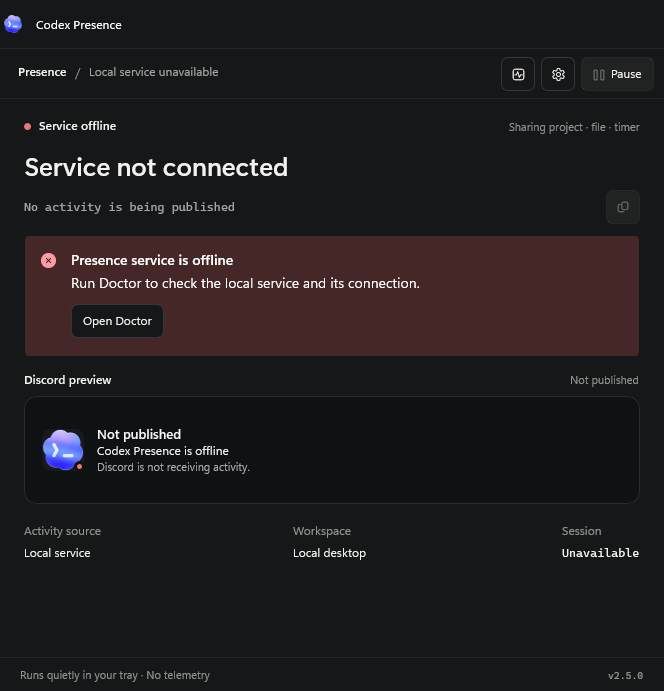
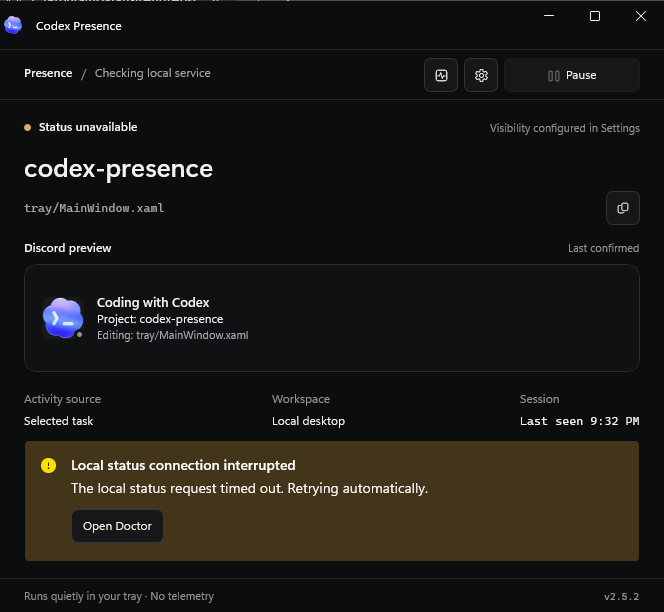
docs: show native interactions and clarify publication states

diff --git a/tests/presentation/Program.cs b/tests/presentation/Program.cs
@@ -19,6 +19,7 @@ snapshot.RpcPublished = false;
 Check(Present().PreviewLabel == "Not published", "unacknowledged activity is not labeled live");
 snapshot.PresenceEnabled = false;
 Check(Present().PreviewLabel == "Not published" && !Present().ShowPreviewElapsed, "paused activity hides the public timer");
+Check(Present().SharingSummary.StartsWith("Configured:"), "paused privacy settings are not described as currently shared");
 snapshot.PresenceEnabled = true;
 snapshot.RpcPublished = true;
 privacy.ShowFile = false;
@@ -37,6 +38,8 @@ var stale = PresencePresentation.Create(snapshot, privacy, now, "Local request t
 Check(stale.Project == "Presence" && stale.PreviewLabel == "Last confirmed", "last confirmed context survives a temporary connection failure");
 Check(!stale.ShowPreviewElapsed && !stale.PreviewSecondary.Contains("MainWindow"), "stale preview freezes the public timer and respects privacy");
 Check(Present().PreviewLabel == "Published" && Present().PauseEnabled, "successful reconnect restores live status and controls");
+var privateFields = new PrivacyConfig { ShowProject = false, ShowFile = false, ShowTaskTitle = false, ShowTimer = false };
+Check(PresencePresentation.Create(snapshot, privateFields, now).SharingSummary == "Sharing app name only", "hiding all optional fields still discloses the app name");
 
 foreach (var start in new DateTimeOffset?[] { null, now.AddHours(1), now.AddDays(-2) })
 {

diff --git a/tray/PresencePresentation.cs b/tray/PresencePresentation.cs
@@ -115,7 +115,7 @@ internal sealed record PresencePresentation(
             source,
             workspace,
             session,
-            BuildSharingSummary(privacy),
+            BuildSharingSummary(privacy, published),
             preview.Title,
             preview.Primary,
             preview.Secondary,
@@ -190,14 +190,15 @@ internal sealed record PresencePresentation(
         return (null, null, PresenceTone.Muted);
     }
 
-    private static string BuildSharingSummary(PrivacyConfig privacy)
+    private static string BuildSharingSummary(PrivacyConfig privacy, bool published)
     {
         var shared = new List<string>(4);
         if (privacy.ShowProject) shared.Add("project");
         if (privacy.ShowTaskTitle) shared.Add("task");
         if (privacy.ShowFile) shared.Add("file");
         if (privacy.ShowTimer) shared.Add("timer");
-        return shared.Count == 0 ? "Sharing nothing" : $"Sharing {string.Join(" · ", shared)}";
+        var fields = shared.Count == 0 ? "app name only" : string.Join(" · ", shared);
+        return $"{(published ? "Sharing" : "Configured:")} {fields}";
     }
 
     private static string FriendlySource(string? value) => value switch

diff --git a/README.md b/README.md
@@ -19,20 +19,11 @@ Codex Presence follows the task selected in ChatGPT/Codex Desktop, detects its p
 
 ## Why this one
 
-- **Selected-task accurate** — follows the task visible in Codex Desktop, not simply the newest transcript.
-- **One-click setup** — the installer includes the Windows UI, daemon, and Node runtime.
-- **Stable session timer** — project, file, and task changes do not reset elapsed time.
-- **Remote-aware** — maps multiple SSH servers to workspace roots.
-- **Private by default** — no telemetry, tokens, prompt uploads, or cloud relay. The local service refuses any request a web page could send.
-- **Native Fluent UI** — WinUI 3, Mica, system controls, keyboard navigation, privacy presets, diagnostics, and verified updates.
-- **Real custom activity name** — replace the top-line “Coding with Codex” text through Discord Social SDK in **Settings → General → Activity name**.
-- **English or Russian card** — the text published to Discord follows **Settings → General → Card language**.
-
-## Fixed in 2.5.1: in-app updates
-
-Update downloads now stream to disk with a ten-minute deadline, show progress, verify SHA-256, and close the file before launching Setup. The installer stops only Presence and its daemon, avoiding the old recursive shutdown that could kill the installer itself. It updates the current directory, preserves configuration, and explicitly returns the app to the tray after a silent upgrade. Failed API checks no longer appear as “up to date”, and errors after accepting an automatic update are shown too.
-
-If your older build cannot finish updating, [download Setup once](https://github.com/trifonovsdev/codex-discord-presence/releases/latest/download/CodexPresenceSetup.exe) and run it over the existing installation. **Do not uninstall first**; uninstalling removes configuration. Subsequent updates use the repaired updater. Installer logs for new in-app updates are saved under `%TEMP%\CodexPresenceUpdate\<version>\<attempt>\install.log`.
+- **Follows your selected task.** Tracks the active project and edited file while keeping a stable whole-session timer.
+- **Includes everything to run.** One installer with the native Windows UI, local daemon, and Node runtime.
+- **Works across SSH workspaces.** Map servers to workspace roots and follow remote Codex sessions.
+- **Keeps you in control.** No telemetry or cloud relay; task titles stay private unless enabled. Pause sharing from the tray.
+- **Fits Windows.** WinUI controls, keyboard navigation, contrast themes, verified updates, and English or Russian Discord cards with a custom activity name.
 
 ## Fixed in 2.5.2: status and interactions
 
@@ -42,7 +33,13 @@ If your older build cannot finish updating, [download Setup once](https://github
 - **Stable layout.** Aligned margins, consistent settings rows, minimum window widths, and copy feedback that does not move the file path. Warnings appear after the preview instead of pushing it down.
 - **Useful project names.** Codex visualization, attachment, and session directories are excluded from workspace guesses; real Codex worktrees still work.
 
-The graphite palette and existing page structure are retained.
+The graphite palette and existing page structure are retained. Native recordings and interaction checks run with Windows animations enabled; the application also respects disabled animations.
+
+## Fixed in 2.5.1: in-app updates
+
+Update downloads now stream to disk with a ten-minute deadline, show progress, verify SHA-256, and close the file before launching Setup. The installer stops only Presence and its daemon, avoiding the old recursive shutdown that could kill the installer itself. It updates the current directory, preserves configuration, and explicitly returns the app to the tray after a silent upgrade. Failed API checks no longer appear as “up to date”, and errors after accepting an automatic update are shown too.
+
+If your older build cannot finish updating, [download Setup once](https://github.com/trifonovsdev/codex-discord-presence/releases/latest/download/CodexPresenceSetup.exe) and run it over the existing installation. **Do not uninstall first**; uninstalling removes configuration. Subsequent updates use the repaired updater. Installer logs for new in-app updates are saved under `%TEMP%\CodexPresenceUpdate\<version>\<attempt>\install.log`.
 
 ## Dashboard
 
